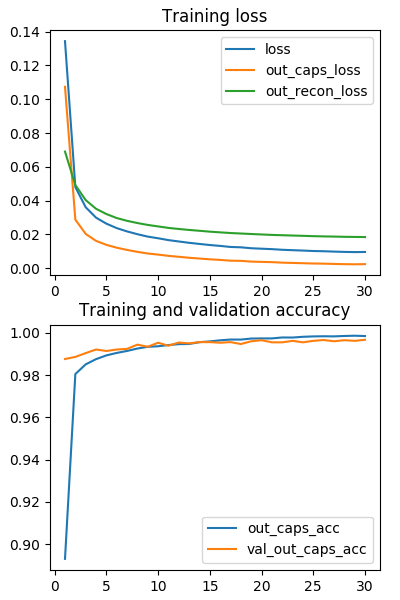
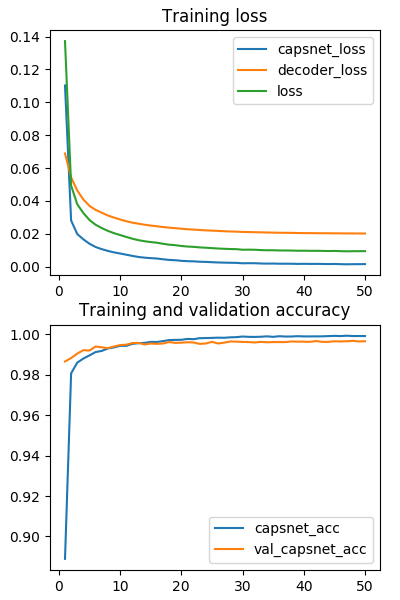
Fix Mask layer, evaluation model
- Correct the `Mask` operation. Now all digit capsules are connected to the decoder simultaneously.
- Change default `epochs` from 30 to 50.
- Define a separate model for test phase which does not require ground truth `y` as input.
- Fix [#13](https://github.com/XifengGuo/CapsNet-Keras/issues/13)
- Remove early stopping

diff --git a/capsulenet.py b/capsulenet.py
@@ -21,6 +21,8 @@ from keras import backend as K
 from keras.utils import to_categorical
 from capsulelayers import CapsuleLayer, PrimaryCap, Length, Mask
 
+K.set_image_data_format('channels_last')
+
 
 def CapsNet(input_shape, n_class, num_routing):
     """
@@ -43,18 +45,24 @@ def CapsNet(input_shape, n_class, num_routing):
 
     # Layer 4: This is an auxiliary layer to replace each capsule with its length. Just to match the true label's shape.
     # If using tensorflow, this will not be necessary. :)
-    out_caps = Length(name='out_caps')(digitcaps)
+    out_caps = Length(name='capsnet')(digitcaps)
 
     # Decoder network.
     y = layers.Input(shape=(n_class,))
-    masked = Mask()([digitcaps, y])  # The true label is used to mask the output of capsule layer.
-    x_recon = layers.Dense(512, activation='relu')(masked)
-    x_recon = layers.Dense(1024, activation='relu')(x_recon)
-    x_recon = layers.Dense(np.prod(input_shape), activation='sigmoid')(x_recon)
-    x_recon = layers.Reshape(target_shape=input_shape, name='out_recon')(x_recon)
+    masked_by_y = Mask()([digitcaps, y])  # The true label is used to mask the output of capsule layer. For training
+    masked = Mask()(digitcaps)  # Mask using the capsule with maximal length. For prediction
 
-    # two-input-two-output keras Model
-    return models.Model([x, y], [out_caps, x_recon])
+    # Shared Decoder model in training and prediction
+    decoder = models.Sequential(name='decoder')
+    decoder.add(layers.Dense(512, activation='relu', input_dim=16*n_class))
+    decoder.add(layers.Dense(1024, activation='relu'))
+    decoder.add(layers.Dense(np.prod(input_shape), activation='sigmoid'))
+    decoder.add(layers.Reshape(target_shape=input_shape, name='out_recon'))
+
+    # Models for training and evaluation (prediction)
+    train_model = models.Model([x, y], [out_caps, decoder(masked_by_y)])
+    eval_model = models.Model(x, [out_caps, decoder(masked)])
+    return train_model, eval_model
 
 
 def margin_loss(y_true, y_pred):
@@ -85,16 +93,15 @@ def train(model, data, args):
     log = callbacks.CSVLogger(args.save_dir + '/log.csv')
     tb = callbacks.TensorBoard(log_dir=args.save_dir + '/tensorboard-logs',
                                batch_size=args.batch_size, histogram_freq=args.debug)
-    checkpoint = callbacks.ModelCheckpoint(args.save_dir + '/weights-{epoch:02d}.h5',
+    checkpoint = callbacks.ModelCheckpoint(args.save_dir + '/weights-{epoch:02d}.h5', monitor='val_capsnet_acc',
                                            save_best_only=True, save_weights_only=True, verbose=1)
-    early_stop = callbacks.EarlyStopping(monitor='val_out_caps_acc', patience=10)
     lr_decay = callbacks.LearningRateScheduler(schedule=lambda epoch: args.lr * (0.9 ** epoch))
 
     # compile the model
     model.compile(optimizer=optimizers.Adam(lr=args.lr),
                   loss=[margin_loss, 'mse'],
                   loss_weights=[1., args.lam_recon],
-                  metrics={'out_caps': 'accuracy'})
+                  metrics={'capsnet': 'accuracy'})
 
     """
     # Training without data augmentation:
@@ -116,21 +123,21 @@ def train(model, data, args):
                         steps_per_epoch=int(y_train.shape[0] / args.batch_size),
                         epochs=args.epochs,
                         validation_data=[[x_test, y_test], [y_test, x_test]],
-                        callbacks=[log, tb, checkpoint, early_stop, lr_decay])
+                        callbacks=[log, tb, checkpoint, lr_decay])
     # End: Training with data augmentation -----------------------------------------------------------------------#
 
     model.save_weights(args.save_dir + '/trained_model.h5')
     print('Trained model saved to \'%s/trained_model.h5\'' % args.save_dir)
 
     from utils import plot_log
-    plot_log(args.save_dir + '/log.csv', show=True)
+    plot_log(args.save_dir + '/log.csv', show=False)
 
     return model
 
 
 def test(model, data):
     x_test, y_test = data
-    y_pred, x_recon = model.predict([x_test, y_test], batch_size=100)
+    y_pred, x_recon = model.predict(x_test, batch_size=100)
     print('-'*50)
     print('Test acc:', np.sum(np.argmax(y_pred, 1) == np.argmax(y_test, 1))/y_test.shape[0])
 
@@ -170,8 +177,8 @@ if __name__ == "__main__":
     # setting the hyper parameters
     import argparse
     parser = argparse.ArgumentParser()
-    parser.add_argument('--batch_size', default=128, type=int)
-    parser.add_argument('--epochs', default=100, type=int)
+    parser.add_argument('--batch_size', default=100, type=int)
+    parser.add_argument('--epochs', default=50, type=int)
     parser.add_argument('--lam_recon', default=0.392, type=float)  # 784 * 0.0005, paper uses sum of SE, here uses MSE
     parser.add_argument('--num_routing', default=3, type=int)  # num_routing should > 0
     parser.add_argument('--shift_fraction', default=0.1, type=float)
@@ -189,9 +196,9 @@ if __name__ == "__main__":
     (x_train, y_train), (x_test, y_test) = load_mnist()
 
     # define model
-    model = CapsNet(input_shape=x_train.shape[1:],
-                    n_class=len(np.unique(np.argmax(y_train, 1))),
-                    num_routing=args.num_routing)
+    model, eval_model = CapsNet(input_shape=x_train.shape[1:],
+                                n_class=len(np.unique(np.argmax(y_train, 1))),
+                                num_routing=args.num_routing)
     model.summary()
     plot_model(model, to_file=args.save_dir+'/model.png', show_shapes=True)
 
@@ -203,4 +210,4 @@ if __name__ == "__main__":
     else:  # as long as weights are given, will run testing
         if args.weights is None:
             print('No weights are provided. Will test using random initialized weights.')
-        test(model=model, data=(x_test, y_test))
+        test(model=eval_model, data=(x_test, y_test))

diff --git a/capsulelayers.py b/capsulelayers.py
@@ -35,21 +35,20 @@ class Mask(layers.Layer):
         if type(inputs) is list:  # true label is provided with shape = [batch_size, n_classes], i.e. one-hot code.
             assert len(inputs) == 2
             inputs, mask = inputs
-        else:  # if no true label, mask by the max length of vectors of capsules
-            x = inputs
+            mask = K.expand_dims(mask, -1)
+        else:  # if no true label, mask by the max length of vectors of capsules. Used for prediction
+            x = K.sqrt(K.sum(K.square(inputs), -1, True))
             # Enlarge the range of values in x to make max(new_x)=1 and others < 0
             x = (x - K.max(x, 1, True)) / K.epsilon() + 1
             mask = K.clip(x, 0, 1)  # the max value in x clipped to 1 and other to 0
 
-        # masked inputs, shape = [batch_size, dim_vector]
-        inputs_masked = K.batch_dot(inputs, mask, [1, 1])
-        return inputs_masked
+        return K.batch_flatten(inputs * mask)  # masked inputs, shape = [None, num_capsule * dim_vector]
 
     def compute_output_shape(self, input_shape):
         if type(input_shape[0]) is tuple:  # true label provided
-            return tuple([None, input_shape[0][-1]])
+            return tuple([None, input_shape[0][1] * input_shape[0][2]])
         else:
-            return tuple([None, input_shape[-1]])
+            return tuple([None, input_shape[1] * input_shape[2]])
 
 
 def squash(vectors, axis=-1):

diff --git a/README.md b/README.md
@@ -1,22 +1,25 @@
 # CapsNet-Keras
 [![License](https://img.shields.io/github/license/mashape/apistatus.svg?maxAge=2592000)](https://github.com/XifengGuo/CapsNet-Keras/blob/master/LICENSE)
 
-Now `test error < 0.4%`. A Keras implementation of CapsNet in the paper:   
-[Sara Sabour, Nicholas Frosst, Geoffrey E Hinton. Dynamic Routing Between Capsules. NIPS 2017](https://arxiv.org/abs/1710.09829)
-
+A Keras implementation of CapsNet in the paper:   
+[Sara Sabour, Nicholas Frosst, Geoffrey E Hinton. Dynamic Routing Between Capsules. NIPS 2017](https://arxiv.org/abs/1710.09829)   
+The current `average test error = 0.34%` and `best test error = 0.30%`.   
+ 
 **Differences with the paper:**   
 - We use the learning rate decay with `decay factor = 0.9` and `step = 1 epoch`,    
-while the paper did not give the detailed parameters.
-- We only report the test errors after `30 epochs` training (still under-fitting).   
+while the paper did not give the detailed parameters (or they didn't use it?).
+- We only report the test errors after `50 epochs` training.   
 In the paper, I suppose they trained for `1250 epochs` according to Figure A.1?
+Sounds crazy, maybe I misunderstood.
 - We use MSE (mean squared error) as the reconstruction loss and 
 the coefficient for the loss is `lam_recon=0.0005*784=0.392`.   
 This should be **equivalent** with using SSE (sum squared error) and `lam_recon=0.0005` as in the paper.
 
 **Recent updates:**
-- Change the default value of lam_recon from 0.0005 to 0.392. This is because the reconstruction
-loss is SSE in paper but MSE in our implementation. 
-We believe that MSE is more robust to the dimension of input images.
+- Correct the `Mask` operation. Now all digit capsules are connected to the decoder simultaneously.
+- Change default `epochs` from 30 to 50.   
+- Define a separate model for test phase which does not require ground truth `y` as input.   
+- Fix [#13](https://github.com/XifengGuo/CapsNet-Keras/issues/13)   
 - Report test errors on MNIST
 
 **TODO**
@@ -72,7 +75,8 @@ It will output the testing accuracy and show the reconstructed images.
 The testing data is same as the validation data. It will be easy to test on new data, 
 just change the code as you want.
 
-You can also just *download a model I trained* from https://pan.baidu.com/s/1o7Hb9fO
+You can also just *download a model I trained* from 
+https://pan.baidu.com/s/1nv9SMFn
 
 ## Results
 
@@ -90,9 +94,9 @@ reported by 3 trials. The results can be reproduced by launching the following c
    :---------|:------:|:---:|:----:|:----:
    Baseline |  -- | -- | --             | *0.39* 
    CapsNet-v1 |  1 | no | 0.39 (0.024)  | *0.34 (0.032)* 
-   CapsNet-v2  |  1 | yes | 0.37 (0.022)| *0.29 (0.011)*
+   CapsNet-v2  |  1 | yes | 0.36 (0.009)| *0.29 (0.011)*
    CapsNet-v3 |  3 | no | 0.40 (0.016)  | *0.35 (0.036)*
-   CapsNet-v4  |  3 | yes| 0.34 (0.009) | *0.25 (0.005)*
+   CapsNet-v4  |  3 | yes| 0.34 (0.016) | *0.25 (0.005)*
    
 Losses and accuracies:   
 ![](result/log.png)
